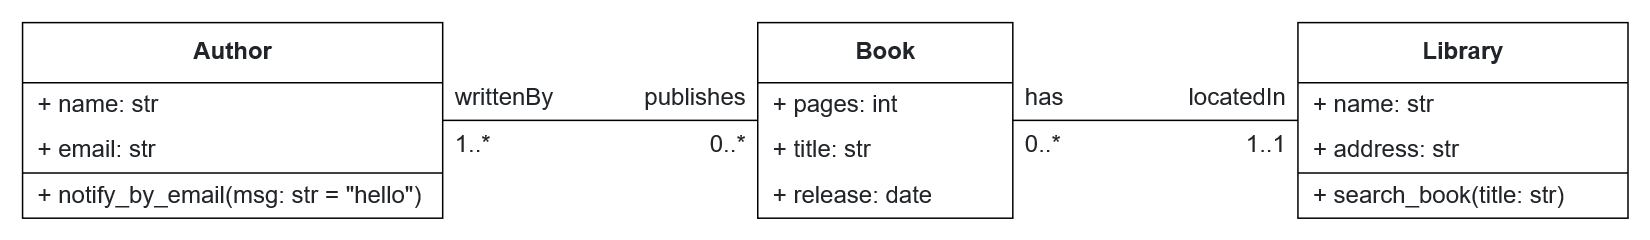
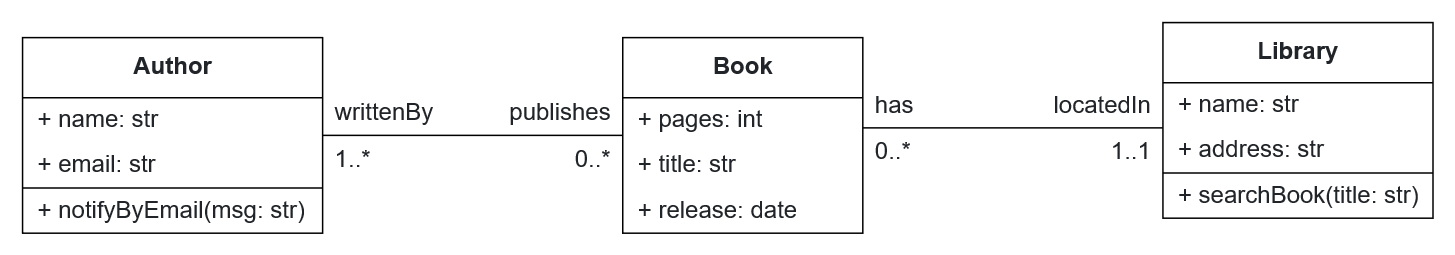
Update README to changes from Python to Java generator

diff --git a/lab3_metamodeling_and_code_generators/README.md b/lab3_metamodeling_and_code_generators/README.md
@@ -53,30 +53,27 @@ To address this limitation, we need to extend the Structural metamodel of B-UML,
 > - Check the [SQLAlchemy documentation](https://docs.sqlalchemy.org/en/20/core/constraints.html) to identify how to define unique fields in a table.
 > - Update the jinja template of the SQLAlchemy Generator to address the uniqueness of fields. The templates and the generator code are located in the directory *besser/generators/sql_alchemy*
 
-### 3.2 Python Generator
+### 3.2 Java Generator
 
-BESSER also provides a [code generator for Python](https://besser.readthedocs.io/en/latest/generators/python.html). This generator produces a Python domain model based on a structural model to create *Classes*, *constructors*, *getters*, and *setters* methods. You can test the code generator output by using the Library example in the [Web Modeling Editor](https://editor.besser-pearl.org/): Navigate to *File -> Start from Template -> Library*, and select *Generate Code -> OPP -> Python Classes*.
+BESSER also provides a [code generator for Java](https://besser.readthedocs.io/en/latest/generators/java.html). This generator produces a Java domain model based on a structural model to create *Classes*, *constructors*, *getters*, and *setters* methods. You can test the code generator output by using the Library example in the [Web Modeling Editor](https://editor.besser-pearl.org/): Navigate to *File -> Start from Template -> Library*, and select *Generate Code -> OPP -> Java Classes*.
 
-Currently, the Python generator does not support class methods generation. For example, suppose your model includes new methods such as `seach_book`, and `notify_by_email`, as shown below.
+Currently, the Java generator does not support class methods generation. For example, suppose your model includes new methods such as `searchBook`, and `notifyByEmail`, as shown below.
 
 <div align="center">
   <img src="figs/methods_model.png" alt="Library example with methods" width="700"/>
 </div>
 
-However, the current version of the Python code generator does not process these methods, meaning they will not appear in the generated code.
+However, the current version of the Java code generator does not process these methods, meaning they will not appear in the generated code.
 
 > ### **Exercise:**
 >
-> Modify the Python generator to include method generation by following these recommendations:
+> Modify the Java generator to include method generation by following these recommendations:
 > - The B-UML structural metamodel already supports method definitions, so it's not necesary to modify or extend it.
-> - Modify the jinja templates to address the methods generation. The templates and the generator code are located in the directory *besser/generators/python_classes*
-> - Below is a sample of the code that the generator should produce for the `notify_by_email` method in the *Author* class.
+> - Modify the jinja templates to address the methods generation. The templates and the generator code are located in the directory *besser/generators/java_classes*
+> - Below is a sample of the code that the generator should produce for the `searchBook` method in the *Library* class.
 
-```python
-def notify_by_email(self, msg: str = "hello") -> None:
-  pass
+```java
+public void searchBook(String title) {
+    // Method implementation goes here
+}
 ```
-
-**Alternative Option**
-
-The [Java code generator](https://besser.readthedocs.io/en/latest/generators/java.html) also lacks method generation. If you prefer, you can improve the Java generator instead of the Python generator.
